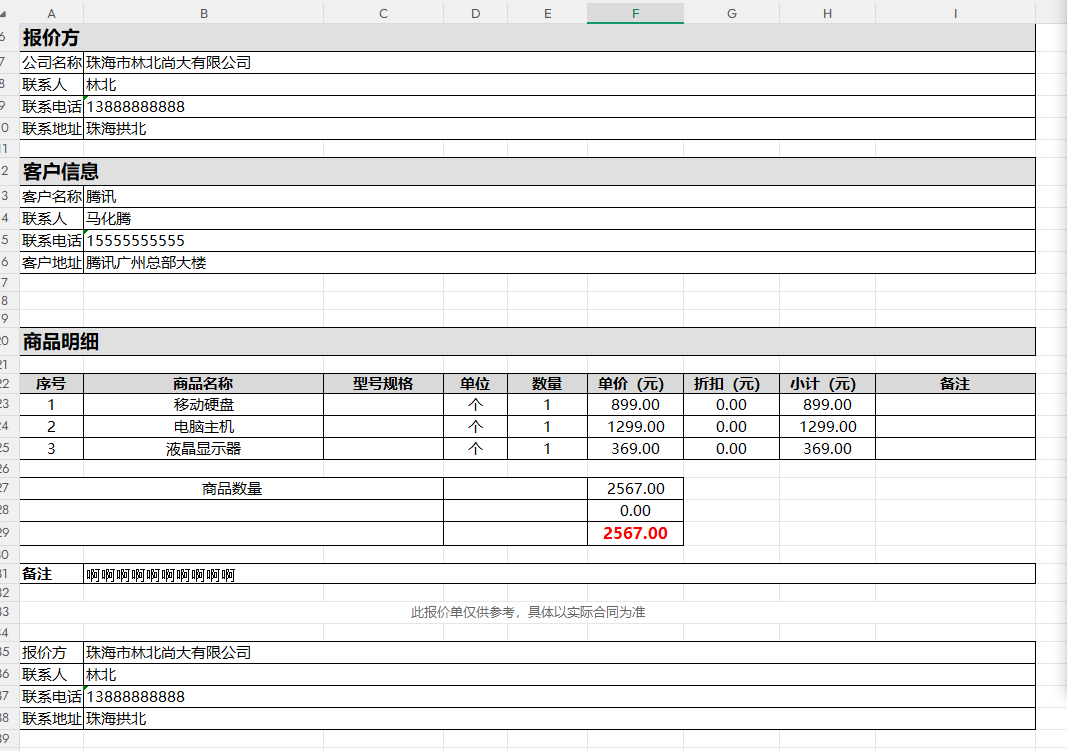
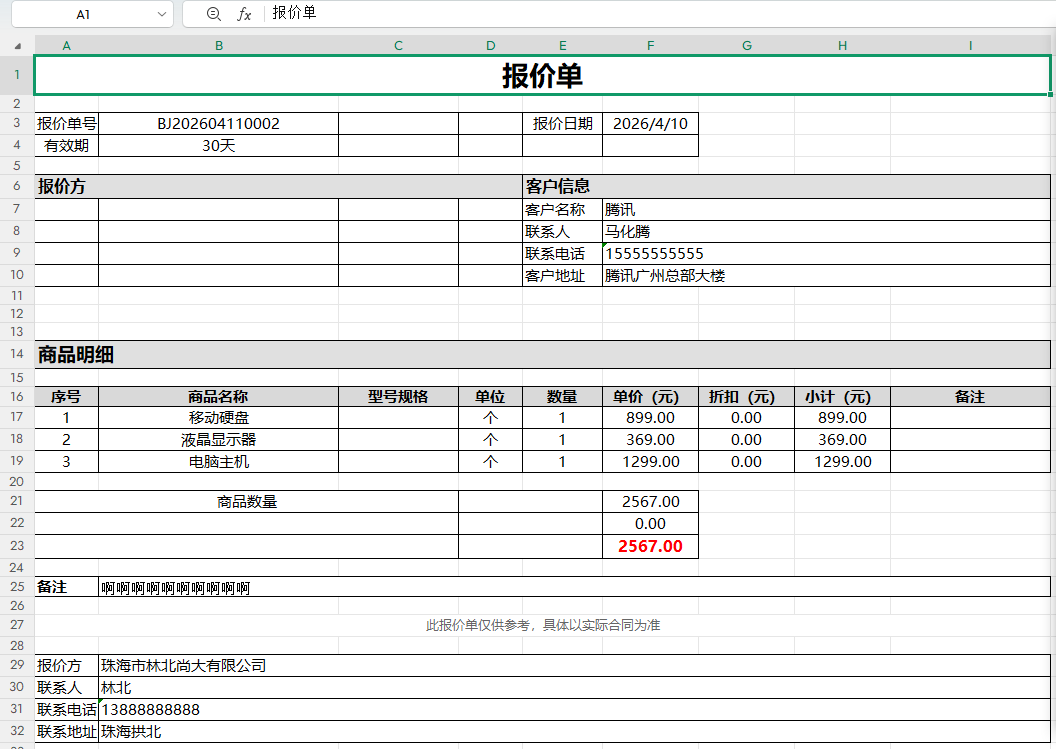
fix: 修复Excel报价方和客户信息左右对称布局

Changed region(s): [[0.0, 0.0, 1.0, 1.0]]

diff --git a/server/src/modules/canvas/canvas.service.ts b/server/src/modules/canvas/canvas.service.ts
@@ -99,17 +99,17 @@ export class CanvasService {
     const workbook = new ExcelJS.Workbook()
     const worksheet = workbook.addWorksheet('报价单')
 
-    // 设置列宽
+    // 设置列宽 - 左右对称布局
     worksheet.columns = [
-      { width: 8 },   // A
-      { width: 30 },  // B
-      { width: 15 },  // C
-      { width: 8 },   // D
-      { width: 10 },  // E
-      { width: 12 },  // F
-      { width: 12 },  // G
-      { width: 12 },  // H
-      { width: 20 },  // I
+      { width: 12 },  // A - 报价方标签
+      { width: 25 },  // B - 报价方内容
+      { width: 12 },  // C - 分隔
+      { width: 1 },   // D - 分隔线
+      { width: 12 },  // E - 客户标签
+      { width: 25 },  // F - 客户内容
+      { width: 8 },   // G - 空
+      { width: 8 },   // H - 空
+      { width: 8 },   // I - 空
     ]
 
     // 边框样式
@@ -156,12 +156,13 @@ export class CanvasService {
     // 3. 报价方和客户信息 - 左右并排布局
     const partyInfoStartRow = row
 
-    // 左边：报价方信息
+    // 左边：报价方信息（列 A-B）
     worksheet.getCell(row, 1).value = '报价方'
     worksheet.getCell(row, 1).font = { bold: true, size: 12, name: '微软雅黑' }
     worksheet.getCell(row, 1).fill = { type: 'pattern', pattern: 'solid', fgColor: { argb: 'FFE0E0E0' } }
-    worksheet.mergeCells(row, 1, row, 4)
+    worksheet.mergeCells(row, 1, row, 2)
     worksheet.getCell(row, 1).border = borderStyle
+    worksheet.getCell(row, 2).border = borderStyle
 
     row++
     const quoteData = [
@@ -173,7 +174,8 @@ export class CanvasService {
 
     quoteData.forEach(rowData => {
       const quoteRow = worksheet.getRow(row)
-      quoteRow.values = rowData
+      quoteRow.getCell(1).value = rowData[0]
+      quoteRow.getCell(2).value = rowData[1]
 
       quoteRow.eachCell({ includeEmpty: true }, (cell) => {
         cell.alignment = { vertical: 'middle', horizontal: 'left' }
@@ -181,18 +183,17 @@ export class CanvasService {
         cell.border = borderStyle
       })
 
-      // 合并单元格
-      worksheet.mergeCells(row, 2, row, 4)
       row++
     })
 
-    // 右边：客户信息
+    // 右边：客户信息（列 E-F）
     const customerStartRow = partyInfoStartRow
     worksheet.getCell(customerStartRow, 5).value = '客户信息'
     worksheet.getCell(customerStartRow, 5).font = { bold: true, size: 12, name: '微软雅黑' }
     worksheet.getCell(customerStartRow, 5).fill = { type: 'pattern', pattern: 'solid', fgColor: { argb: 'FFE0E0E0' } }
-    worksheet.mergeCells(customerStartRow, 5, customerStartRow, 9)
+    worksheet.mergeCells(customerStartRow, 5, customerStartRow, 6)
     worksheet.getCell(customerStartRow, 5).border = borderStyle
+    worksheet.getCell(customerStartRow, 6).border = borderStyle
 
     let customerRow = customerStartRow + 1
     const customerData = fullQuote.customers ? [
@@ -209,7 +210,8 @@ export class CanvasService {
 
     customerData.forEach(rowData => {
       const cRow = worksheet.getRow(customerRow)
-      cRow.values = ['', '', '', '', ...rowData]
+      cRow.getCell(5).value = rowData[0]
+      cRow.getCell(6).value = rowData[1]
 
       cRow.eachCell({ includeEmpty: true }, (cell) => {
         cell.alignment = { vertical: 'middle', horizontal: 'left' }
@@ -217,8 +219,6 @@ export class CanvasService {
         cell.border = borderStyle
       })
 
-      // 合并单元格
-      worksheet.mergeCells(customerRow, 6, customerRow, 9)
       customerRow++
     })
 
